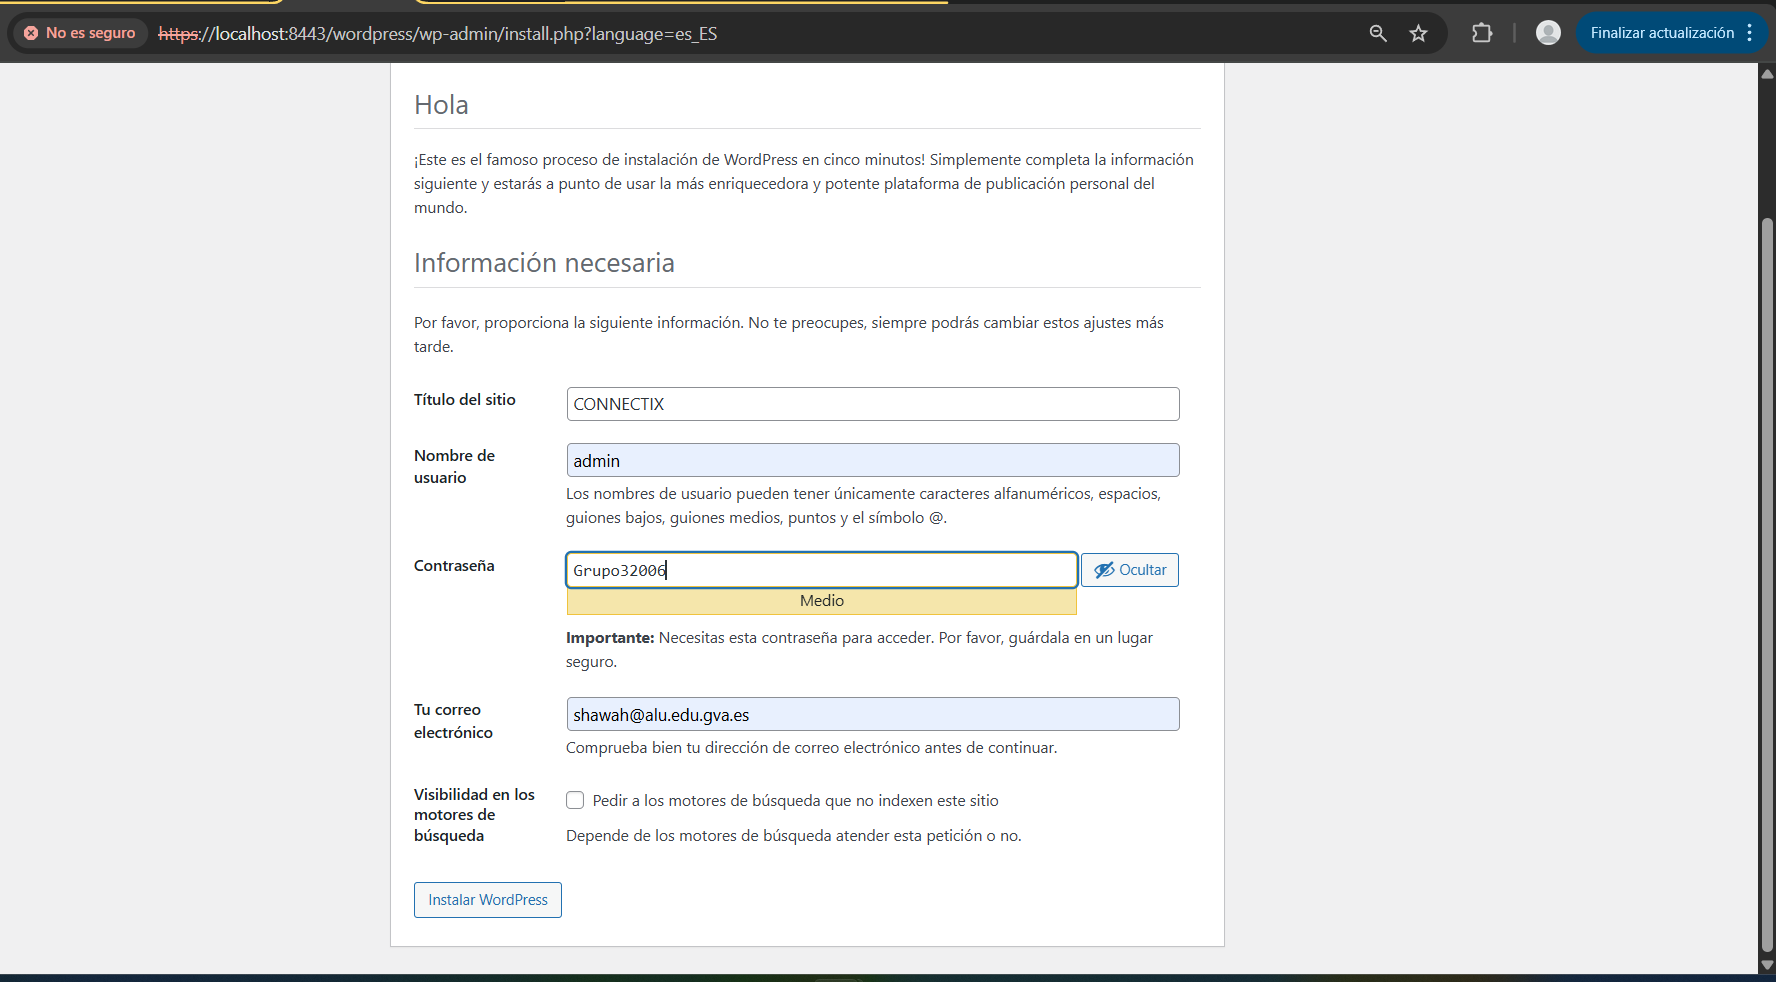
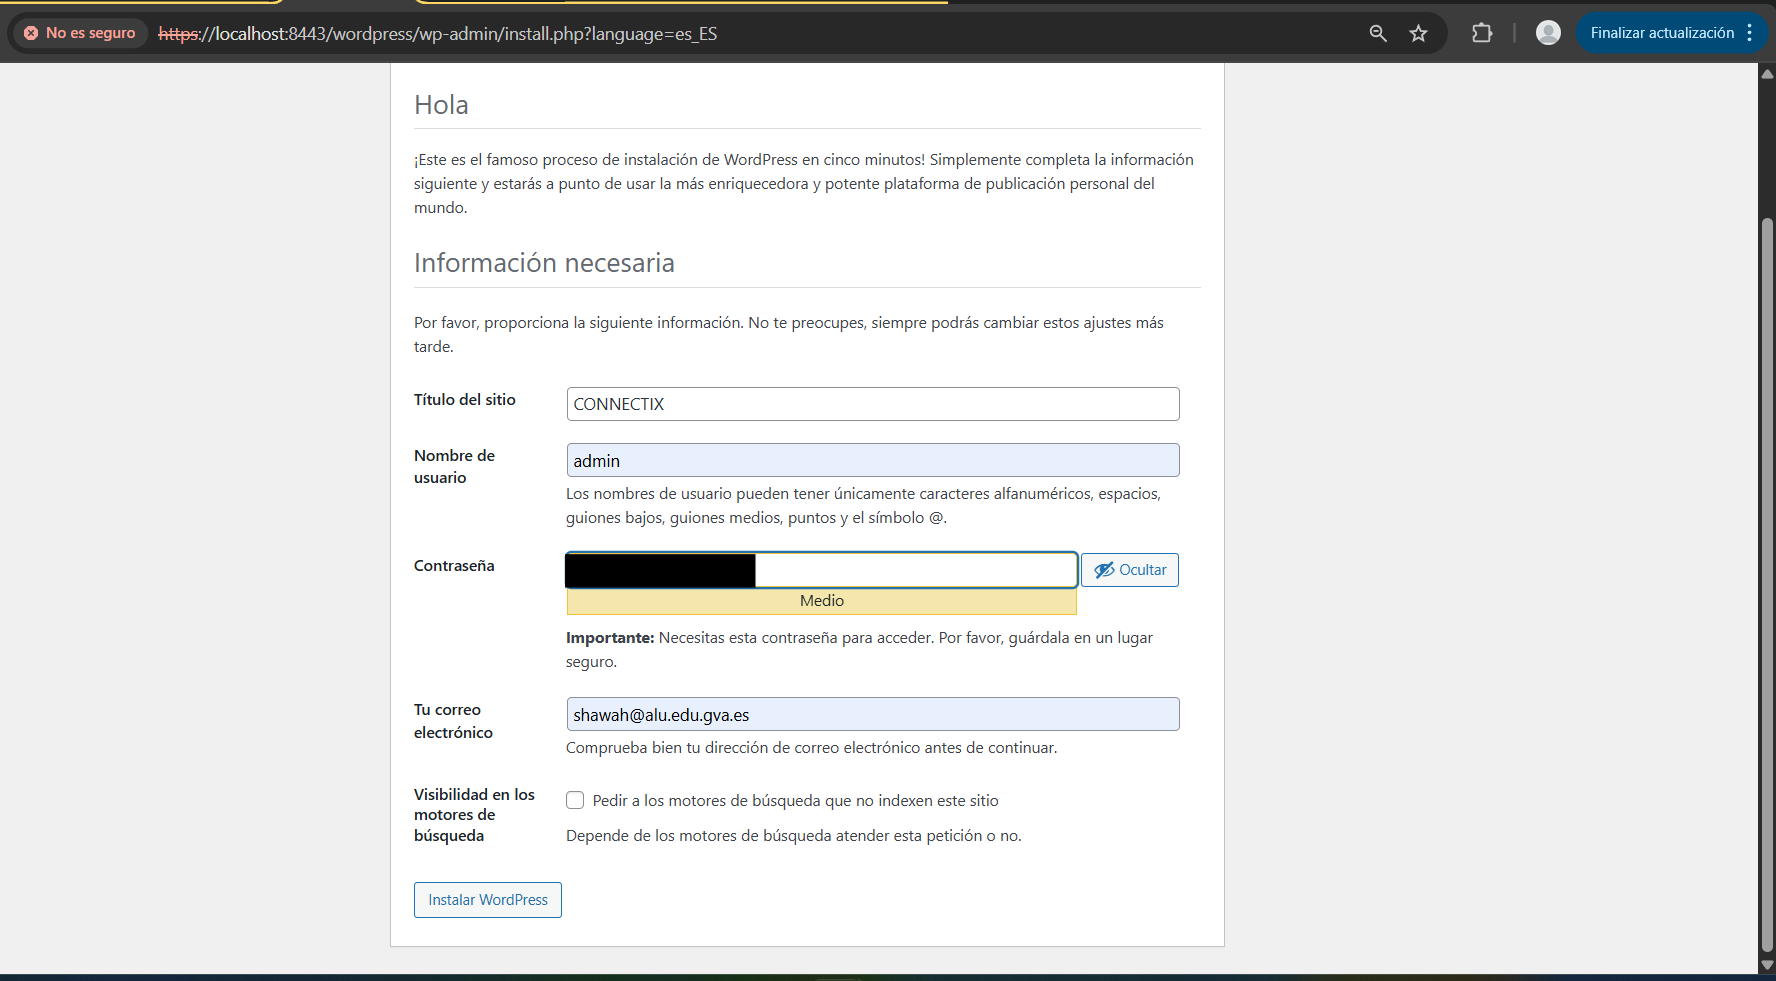
revisiones finales antes de la presentación

diff --git a/Proxmox/Servidores/WEB/README.md b/Proxmox/Servidores/WEB/README.md
@@ -94,8 +94,6 @@ Desde el ordenador cliente (Windows/Linux), se ejecutó el siguiente comando par
 # Comando ejecutado desde el host cliente
 ssh -L 8443:localhost:443 grupo3@172.16.204.138
 ```
-imagen
-
 Pudimos saber los puertos gracias al comando:
 ```bash
 ss -ntlp

diff --git a/Proxmox/Configuración/README.md b/Proxmox/Configuración/README.md
@@ -20,6 +20,7 @@ Esta configuración consolida el puente WAN (`vmbr0`) con el puente LAN (`redwp`
 La configuración es la siguiente:
 
 ![](../../imágenes/px_conf/px_conf_1.png)
+
 Una vez modificado el archivo, se aplican los cambios:
 
 ```bash
